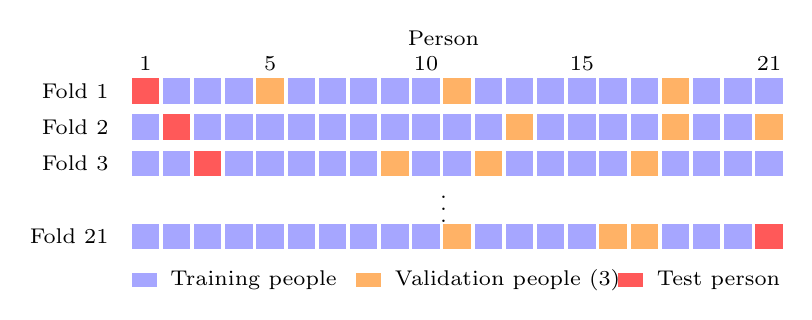
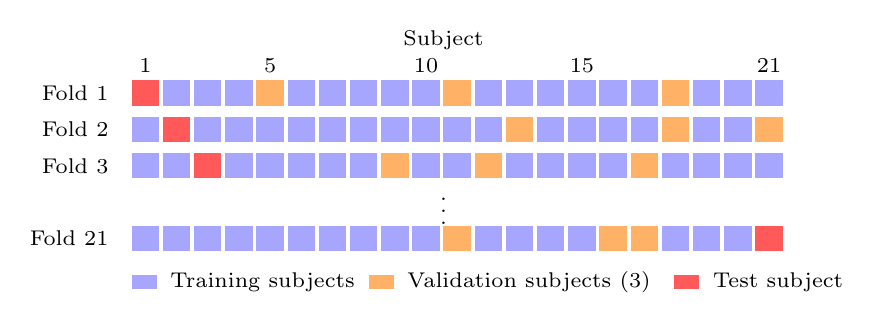
Use subject-independent terminology and align title with the paper

diff --git a/README.md b/README.md
@@ -1,6 +1,6 @@
-# Person-Independent Driver Drowsiness Estimation from EEG and Forehead EOG
+# CNN–LSTM and Kolmogorov–Arnold Networks for Subject-Independent Driver Drowsiness Estimation from EEG and Forehead EOG
 
-Code for estimating the vigilance of drivers who were **not seen during training**, using EEG and forehead EOG from the public **SEED-VIG** dataset. The pipeline cleans the recordings, extracts features that can be computed in real time, and compares an **LSTM**, a **CNN–LSTM**, a **Kolmogorov–Arnold network (KAN)**, and a **CNN–LSTM with a KAN prediction head** under leave-one-person-out evaluation.
+Code for estimating the vigilance of drivers who were **not seen during training**, using EEG and forehead EOG from the public **SEED-VIG** dataset. The pipeline cleans the recordings, extracts features that can be computed in real time, and compares an **LSTM**, a **CNN–LSTM**, a **Kolmogorov–Arnold network (KAN)**, and a **CNN–LSTM with a KAN prediction head** under leave-one-subject-out evaluation.
 
 **Main findings**
 
@@ -29,7 +29,7 @@ Code for estimating the vigilance of drivers who were **not seen during training
 
 ## 1. Results at a glance
 
-These are leave-one-person-out results, shown as the mean ± standard deviation over 21 people (`results/seedvig/stats_*_clean.json`).
+These are leave-one-subject-out results, shown as the mean ± standard deviation over 21 subjects (`results/seedvig/stats_*_clean.json`).
 
 | Model | Input | PERCLOS COR ↑ | PERCLOS RMSE ↓ | 3-class accuracy ↑ | 3-class macro-F1 ↑ |
 |---|---|---|---|---|---|
@@ -41,7 +41,7 @@ These are leave-one-person-out results, shown as the mean ± standard deviation 
 | MLP | 19 compact features | 0.752 ± 0.159 | 0.166 ± 0.049 | **0.650 ± 0.129** | 0.550 ± 0.103 |
 | **KAN** | **19 compact features** | **0.758 ± 0.169** | **0.163 ± 0.041** | 0.635 ± 0.152 | **0.562 ± 0.118** |
 
-Models are compared with paired Wilcoxon tests across the 21 people, with Holm correction.
+Models are compared with paired Wilcoxon tests across the 21 subjects, with Holm correction.
 
 - **Against the LSTM, the 91-feature models and both CNN–LSTMs,** the KAN has a significantly lower RMSE.
 - **Against the MLP on the same 19 features,** the KAN is statistically indistinguishable, but the KAN's learned functions can be inspected.
@@ -60,7 +60,7 @@ Models are compared with paired Wilcoxon tests across the 21 people, with Holm c
 │   ├── extract_features.py step 4  causal features (DE, EOG, compact set)
 │   ├── check_features.py   step 4  feature checks
 │   ├── plot_cleaning.py    step 4  cleaning figure
-│   ├── splits.py           leave-one-person-out folds
+│   ├── splits.py           leave-one-subject-out folds
 │   ├── models.py           LSTM, CNN–LSTM, B-spline KAN layer, KAN, MLP
 │   ├── train_lib.py        data loading, training, early stopping, metrics
 │   ├── pilot.py            step 5  hyperparameter selection
@@ -132,7 +132,7 @@ flowchart LR
 
 ### Step 1. Labels and official features: `build_features.py`
 
-- Reads the 23 sessions (21 people), each with 885 consecutive 8-second segments, giving 20,355 samples in total.
+- Reads the 23 sessions (21 subjects), each with 885 consecutive 8-second segments, giving 20,355 samples in total.
 - Collects the PERCLOS label of each segment (0 = awake … 1 = drowsy), and assigns 3 classes: awake < 0.35 ≤ tired < 0.7 ≤ drowsy.
 - Also stores the official SEED-VIG features. These are smoothed over the whole session, so they are used only for comparison.
 - **Output:** `features.npz`
@@ -179,9 +179,9 @@ How the EOG features are measured:
 
 ### Step 5. Hyperparameter selection: `pilot.py reg` and `pilot.py cls`
 
-- Uses the first 3 leave-one-person-out folds, with test persons 1, 2 and 3.
-- Each configuration in a pre-stated grid is trained once on the training people and scored on 3 validation people.
-- The configuration with the lowest mean validation loss is fixed for all folds. Test-person scores are never used.
+- Uses the first 3 leave-one-subject-out folds, with test subjects 1, 2 and 3.
+- Each configuration in a pre-stated grid is trained once on the training subjects and scored on 3 validation subjects.
+- The configuration with the lowest mean validation loss is fixed for all folds. Test-subject scores are never used.
 
 | Model | Search range | Selected (PERCLOS / 3 classes) |
 |---|---|---|
@@ -191,7 +191,7 @@ How the EOG features are measured:
 
 - **Output:** `pilot_reg.json`, `pilot_cls.json`
 
-### Step 6. Leave-one-person-out experiments: `run_lopo.py`
+### Step 6. Leave-one-subject-out experiments: `run_lopo.py`
 
 ```bash
 python3 run_lopo.py reg                # PERCLOS regression, cleaned signals
@@ -201,11 +201,11 @@ python3 run_lopo.py reg models=KAN     # a single model
 ```
 
 For each of the 21 folds:
-1. One person is the test set. Persons 4 and 5 recorded two sessions, and both sessions are held out together.
-2. Three other people are validation data for early stopping.
+1. One subject is the test set. Subjects 4 and 5 recorded two sessions, and both sessions are held out together.
+2. Three other subjects are validation data for early stopping.
 3. The rest are training data.
 
-Each neural model is trained with 3 seeds, using Adam, batch size 128, at most 60 epochs, and early stopping with a patience of 10. The test predictions are averaged over the seeds. Scores are computed per test person. The script resumes automatically if it is interrupted.
+Each neural model is trained with 3 seeds, using Adam, batch size 128, at most 60 epochs, and early stopping with a patience of 10. The test predictions are averaged over the seeds. Scores are computed per test subject. The script resumes automatically if it is interrupted.
 
 - **Output:** `lopo_<task>_<signals>.json`, `lopo_<task>_<signals>_pred.npz`
 
@@ -216,16 +216,16 @@ Each neural model is trained with 3 seeds, using Adam, batch size 128, at most 6
 | `feature_sets_full.py` | compares feature sets with the SVR on the same splits | `feature_sets_full.json` |
 | `sensitivity.py` | runs the runner-up KAN and LSTM configurations on all 21 folds | `sensitivity_reg.json` |
 | `modality.py` | trains the KAN on the EEG part (13) and the EOG part (6) of the compact set | `modality_reg.json` |
-| `kan_interpret.py` | trains the KAN on all people and plots each feature's effect on the predicted PERCLOS | `kan_interpretation.json`, `fig_kan_effects.png` |
+| `kan_interpret.py` | trains the KAN on all subjects and plots each feature's effect on the predicted PERCLOS | `kan_interpretation.json`, `fig_kan_effects.png` |
 
 ### Step 8. Statistics and figures
 
 | Script | What it does | Output |
 |---|---|---|
-| `analyze_lopo.py` | per-model mean ± SD, paired Wilcoxon tests with Holm correction and rank-biserial effect sizes, per-person figure | `stats_*_clean.json`, `fig_lopo_per_person_clean.png` |
+| `analyze_lopo.py` | per-model mean ± SD, paired Wilcoxon tests with Holm correction and rank-biserial effect sizes, per-subject figure | `stats_*_clean.json`, `fig_lopo_per_person_clean.png` |
 | `compare_cleaning.py` | cleaned vs. filtered-only, for every model | `cleaning_ablation.json` |
 | `per_class.py` | per-class F1 and confusion matrices for the 3-class task | `per_class_cls.json` |
-| `rescore_cls.py` | recomputes 3-class scores from saved predictions, with macro-F1 over the classes present for each person | updates `lopo_cls_clean.json` |
+| `rescore_cls.py` | recomputes 3-class scores from saved predictions, with macro-F1 over the classes present for each subject | updates `lopo_cls_clean.json` |
 
 ---
 
@@ -248,21 +248,21 @@ The B-spline KAN layer is implemented directly in PyTorch, in `models.py` under 
 
 ## 7. Evaluation protocol
 
-![Leave-one-person-out protocol](docs/images/protocol.png)
+![Leave-one-subject-out protocol](docs/images/protocol.png)
 
 **Metrics:**
 - **PERCLOS regression:** Pearson correlation (COR) and RMSE.
-- **3 classes:** accuracy and macro-F1, the latter computed over the classes present in each person's data.
+- **3 classes:** accuracy and macro-F1, the latter computed over the classes present in each subject's data.
 
-**Statistics:** each person is an independent test case. Models are compared with the Wilcoxon signed-rank test across the 21 people, Holm-corrected over all model pairs, with the rank-biserial effect size.
+**Statistics:** each subject is an independent test case. Models are compared with the Wilcoxon signed-rank test across the 21 subjects, Holm-corrected over all model pairs, with the rank-biserial effect size.
 
 ---
 
 ## 8. Figures
 
-**Score of every test person** (points), with box plots and means (blue bars):
+**Score of every test subject** (points), with box plots and means (blue bars):
 
-![Per-person results](figures/seedvig/fig_lopo_per_person_clean.png)
+![Per-subject results](figures/seedvig/fig_lopo_per_person_clean.png)
 
 **Learned KAN effects.** These show how each compact feature moves the predicted PERCLOS when the other features are held at their mean:
 
